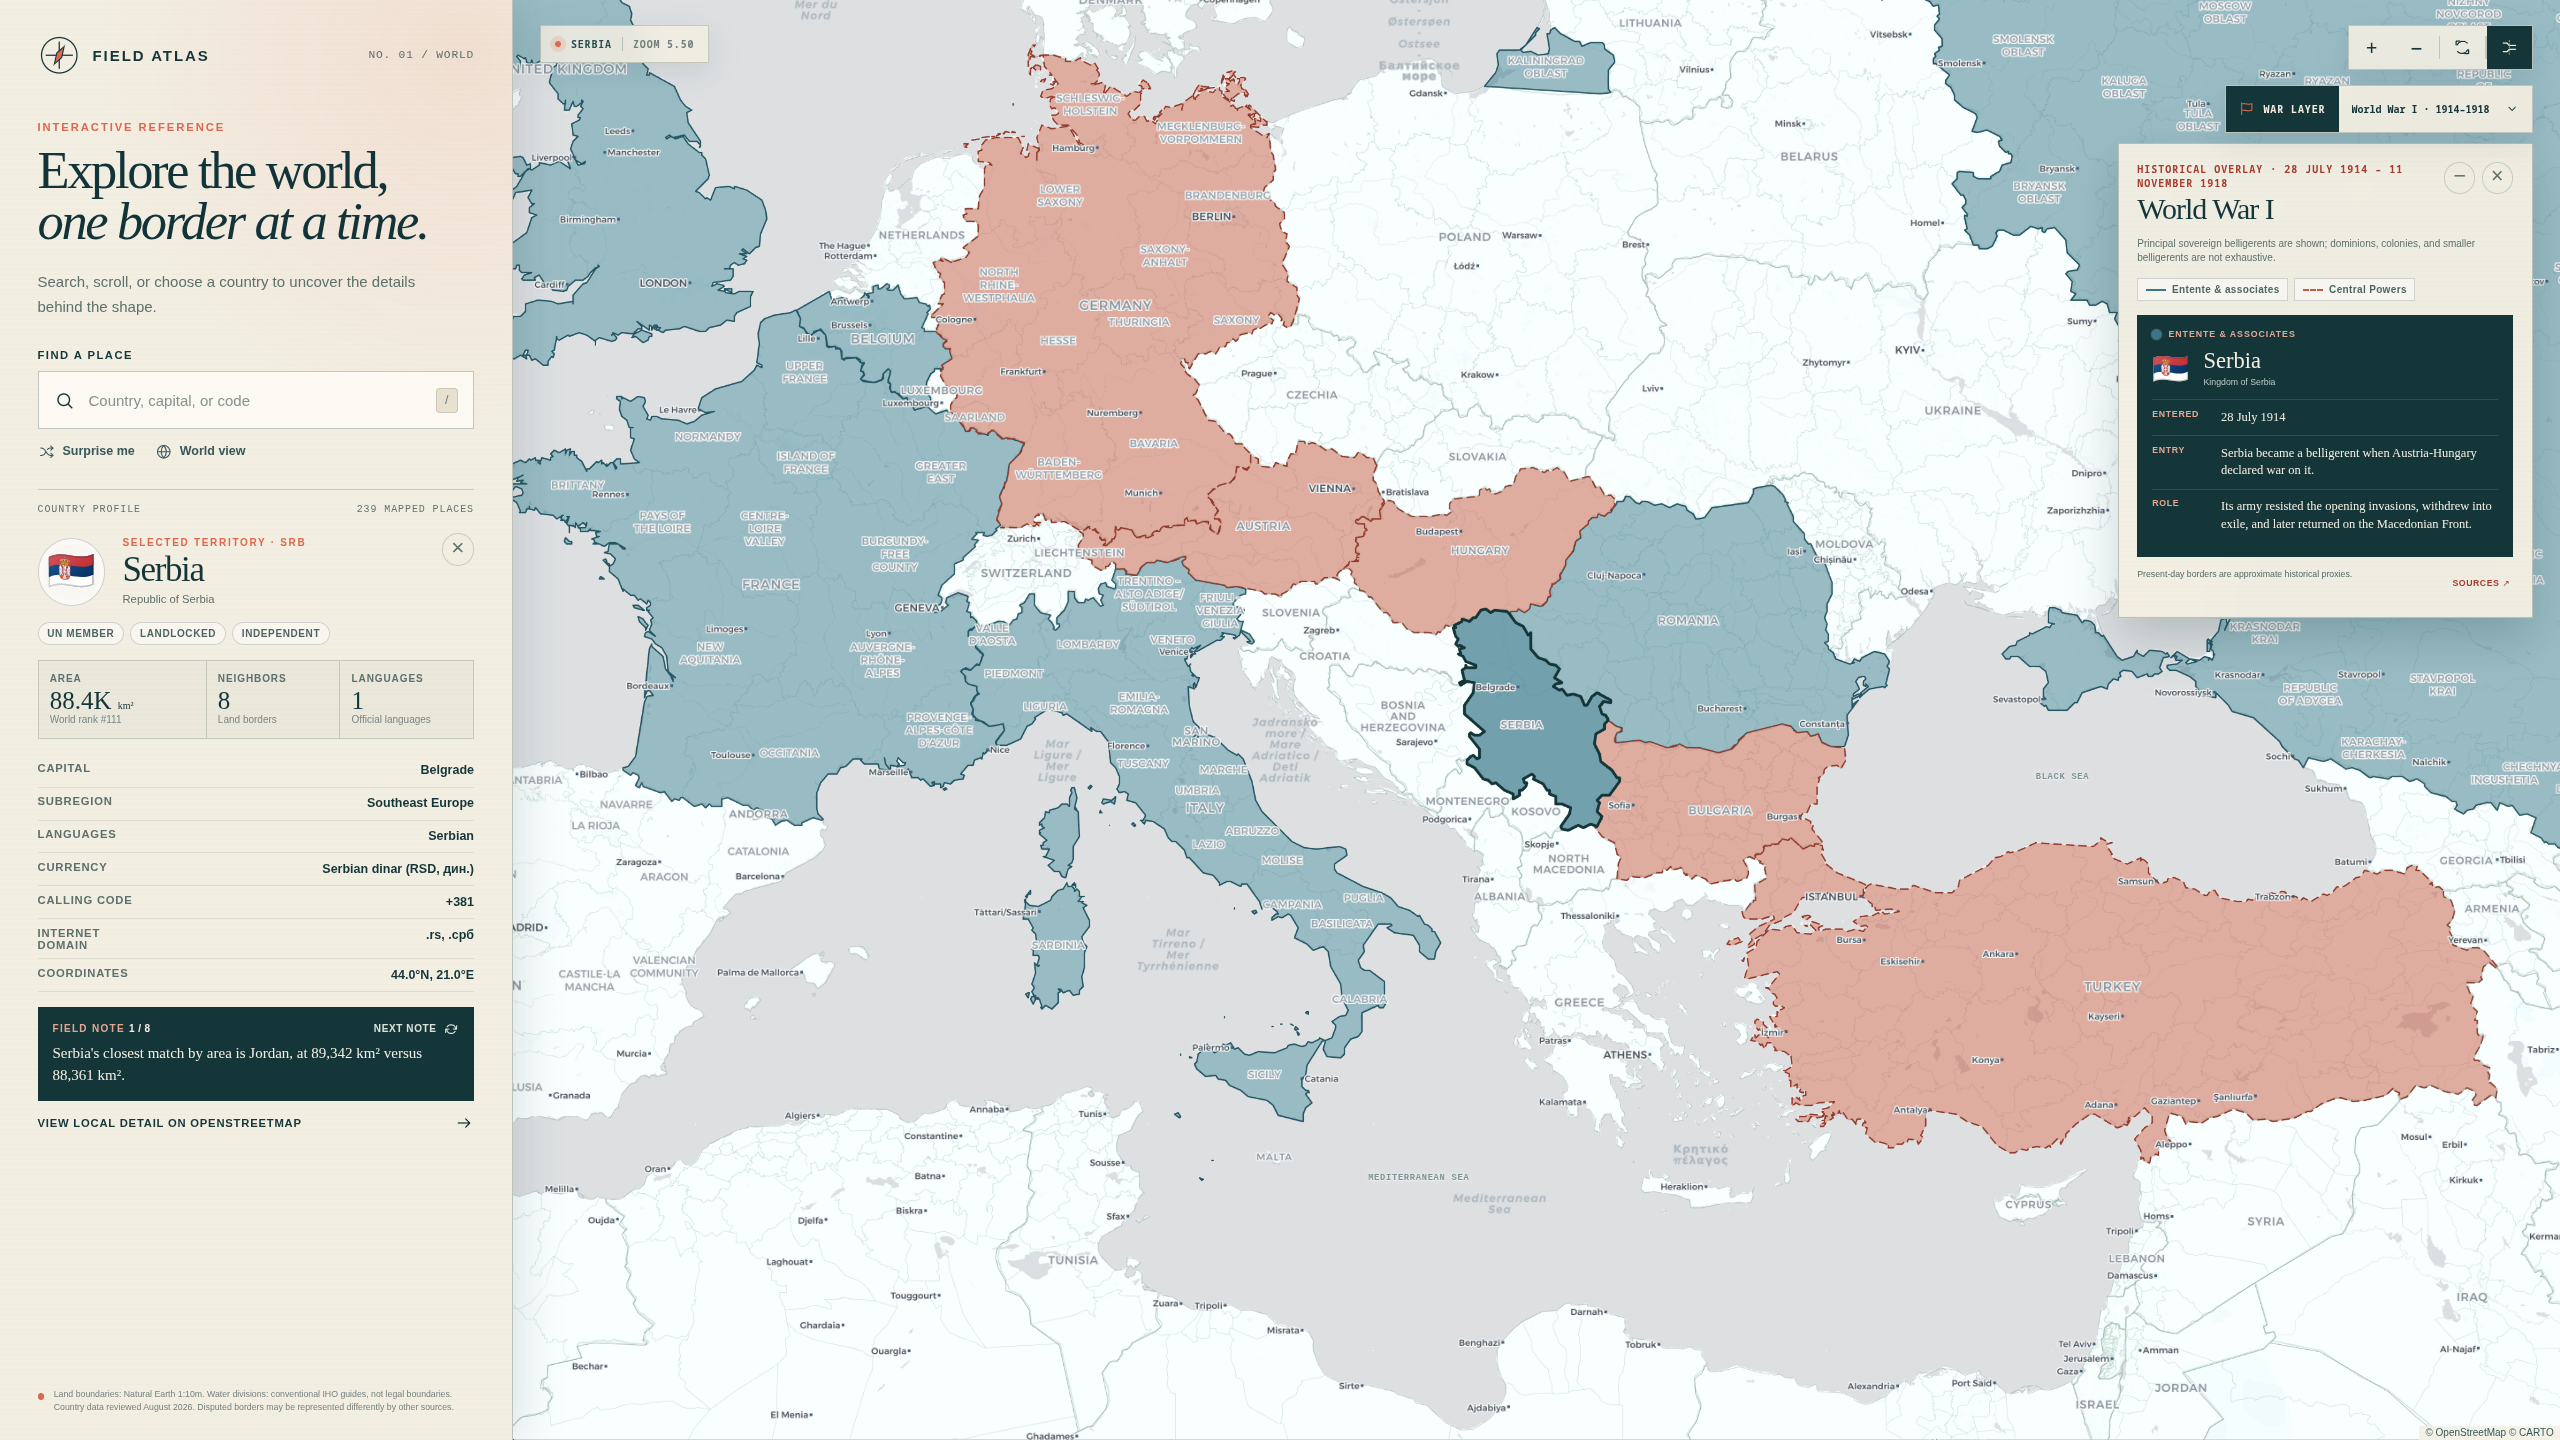
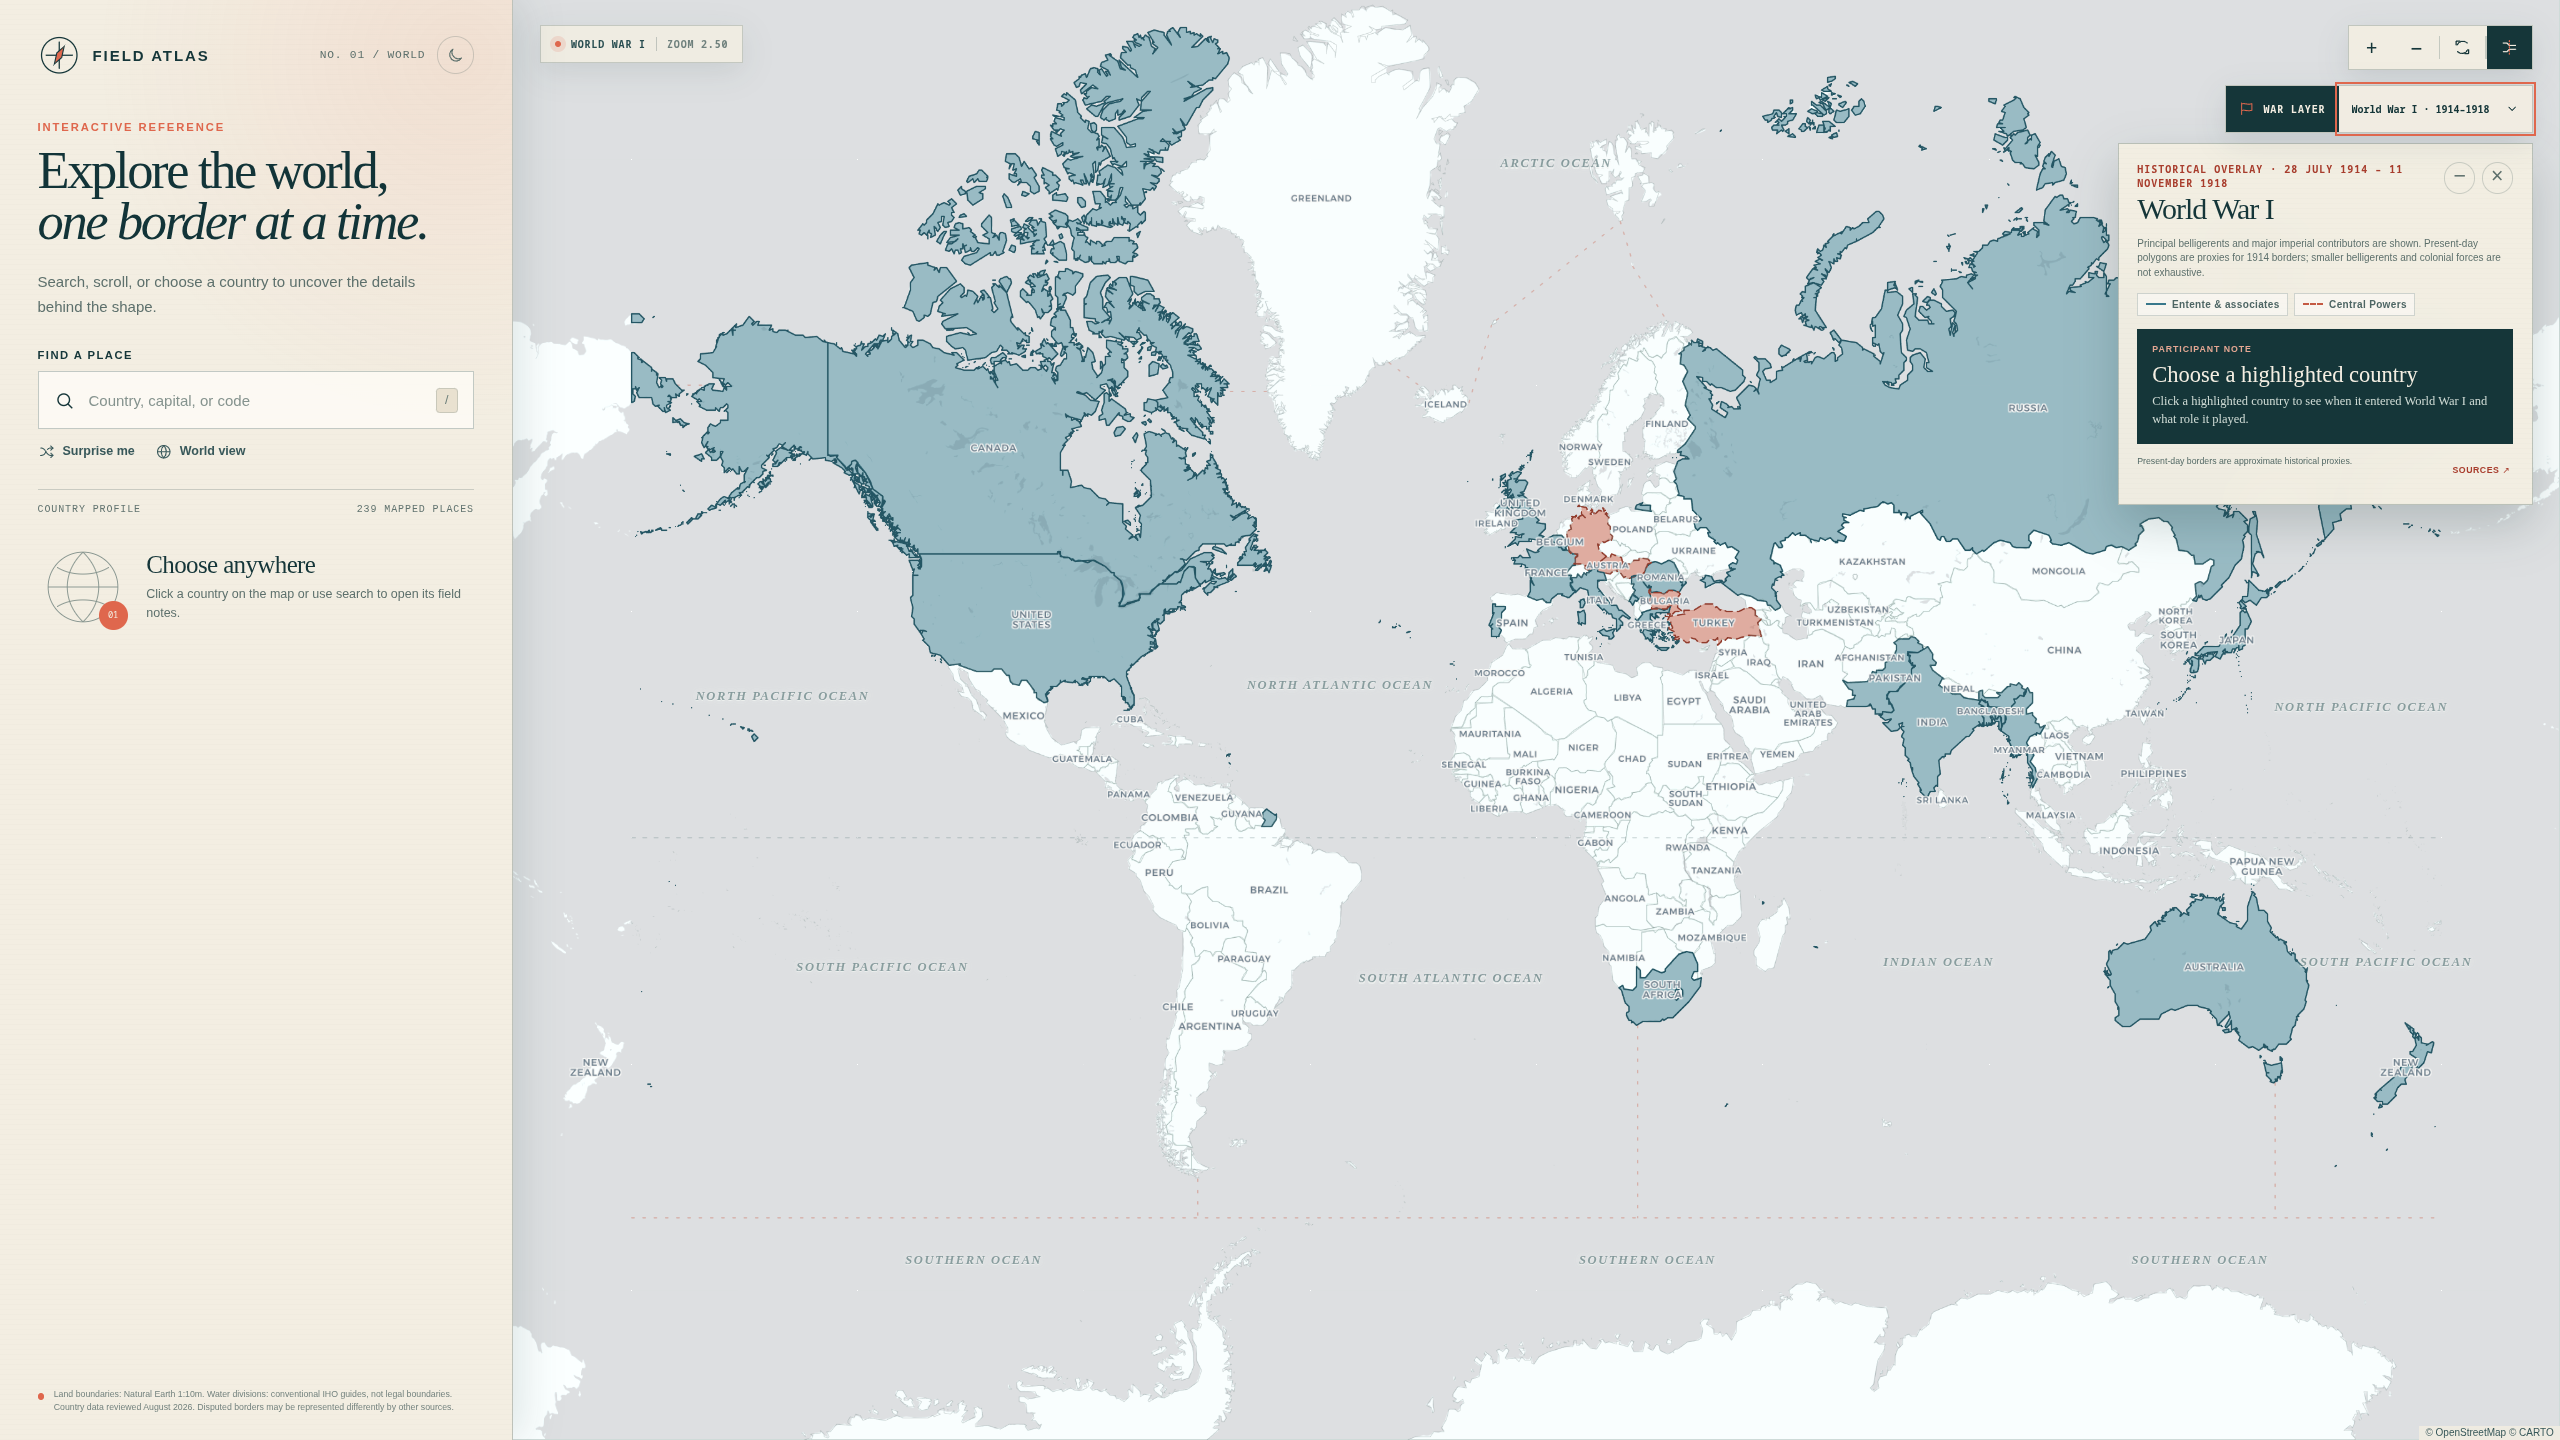
screenshots fixed

diff --git a/README.md b/README.md
@@ -20,3 +20,6 @@ The optional war layers are curated views of principal belligerents and major co
 ![Main ScreenShot](images/main.png)
 ![World Map Fact](images/fact.png)
 ![War Mode](images/war.png)
+![Dark Main ScreenShot](images/main-dark.png)
+![Dark World Map Fact](images/fact-dark.png)
+![Dark War Mode](images/war-dark.png)
